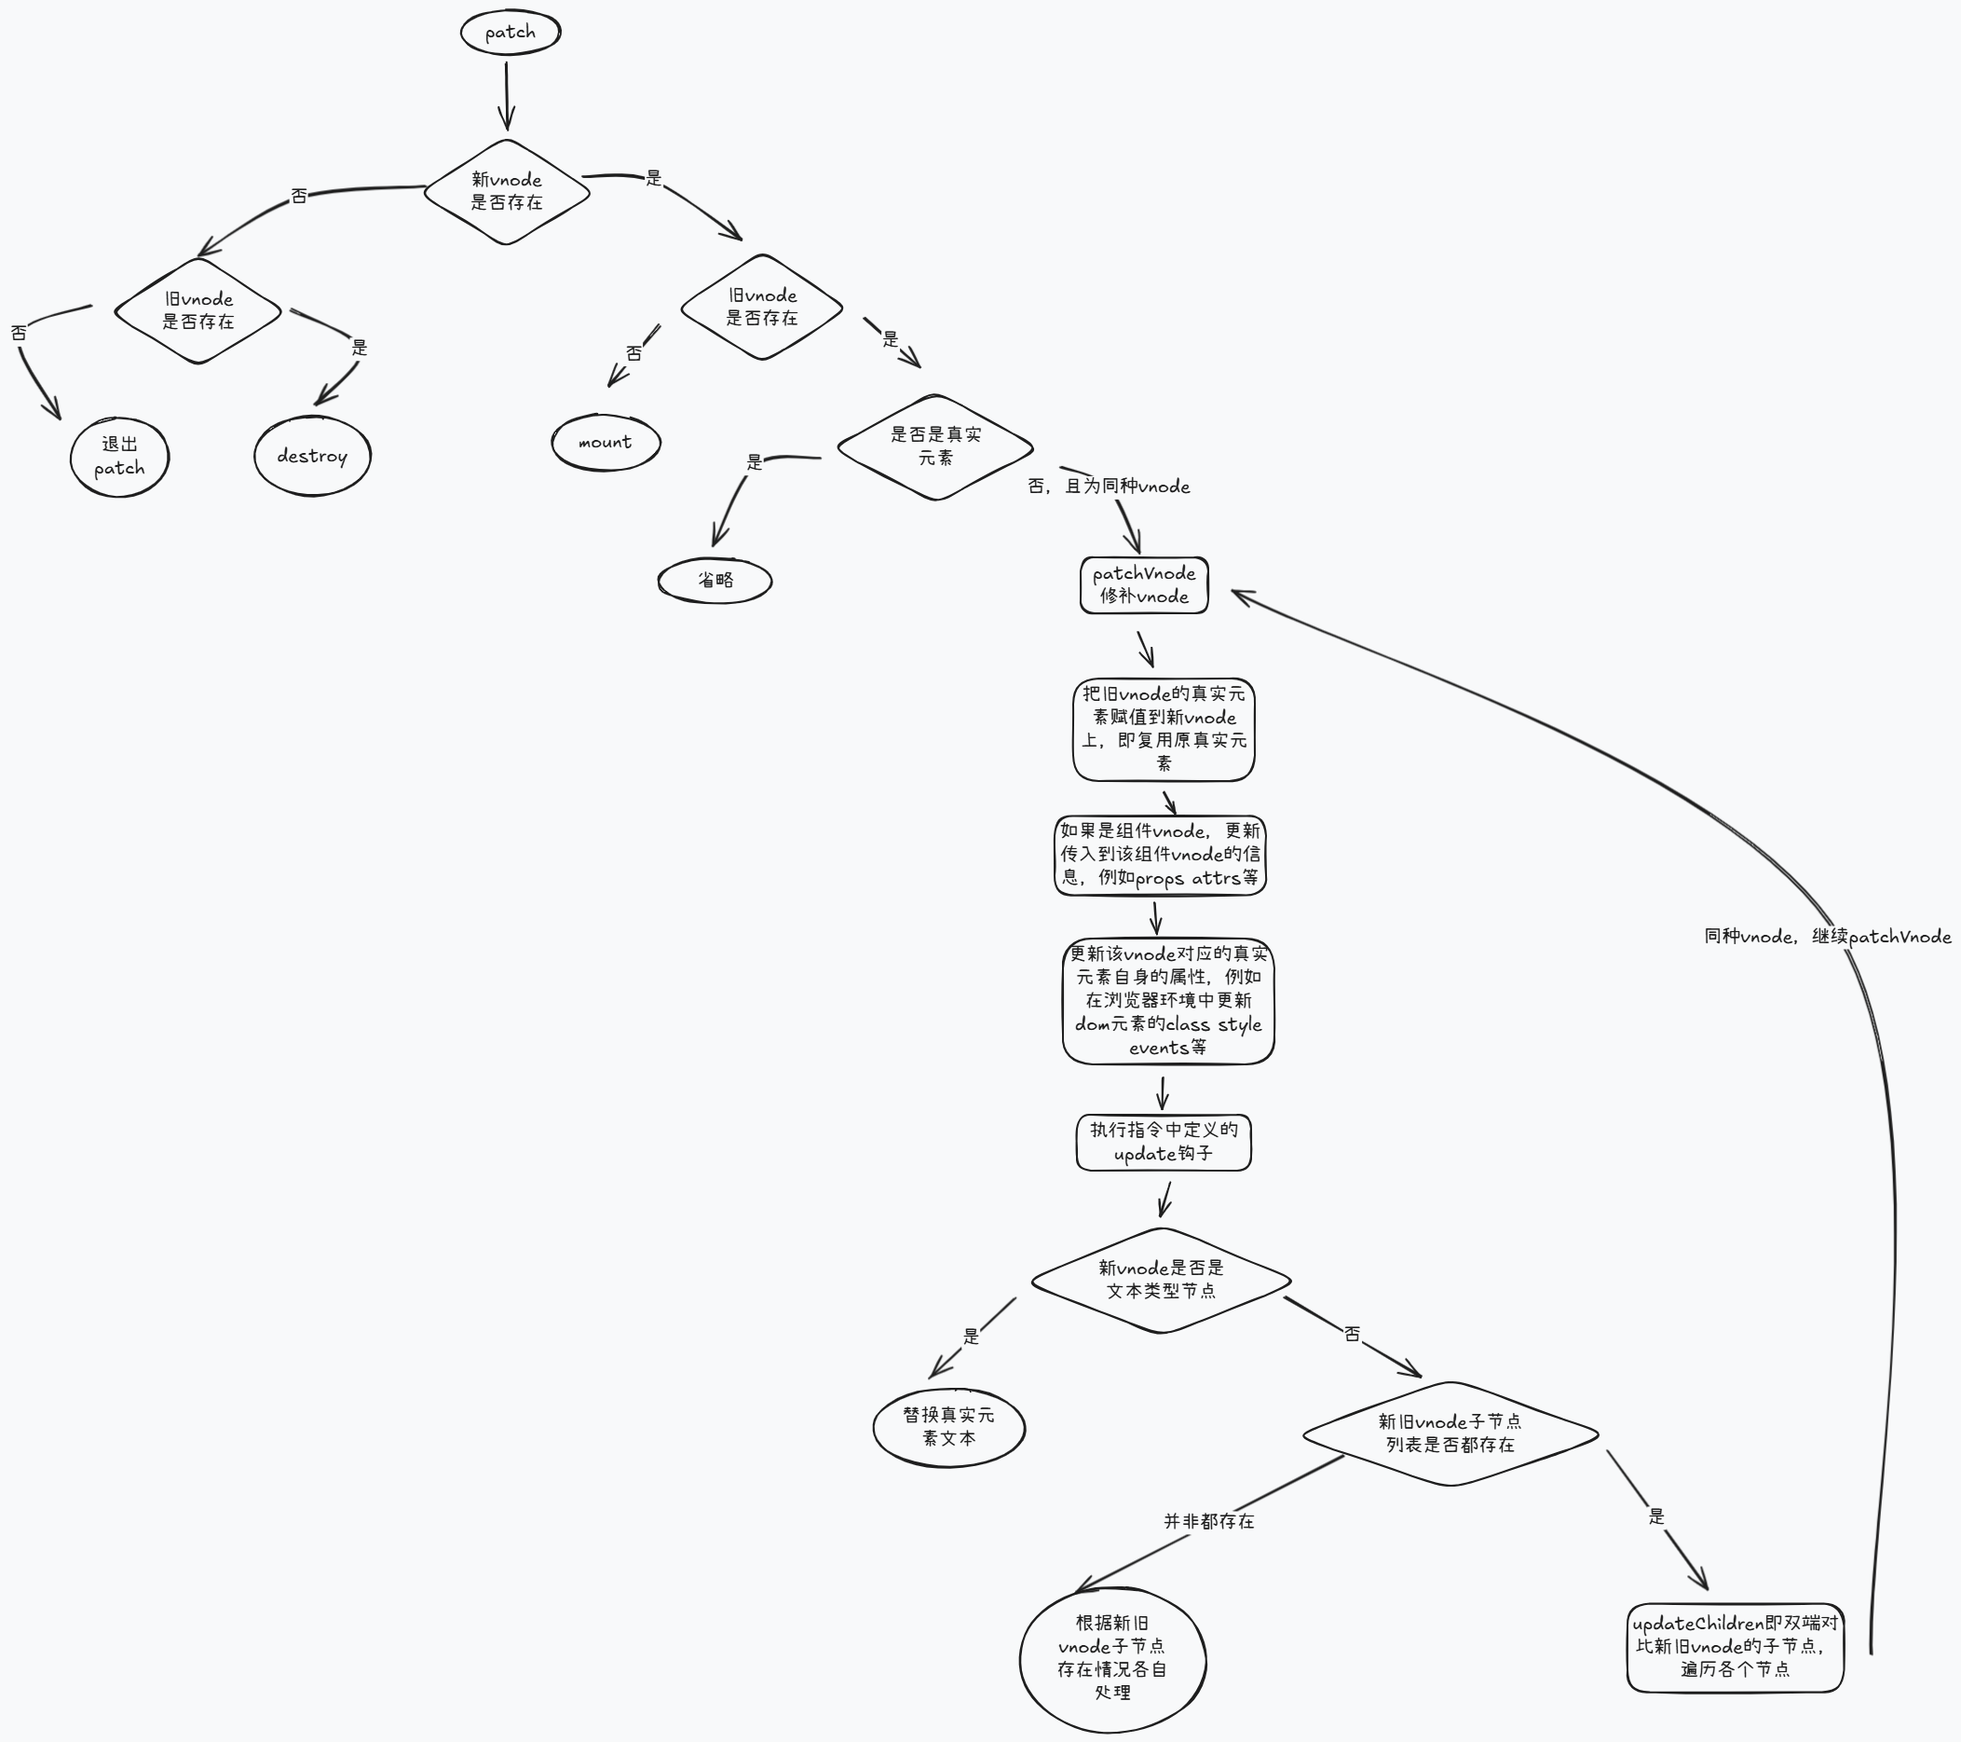
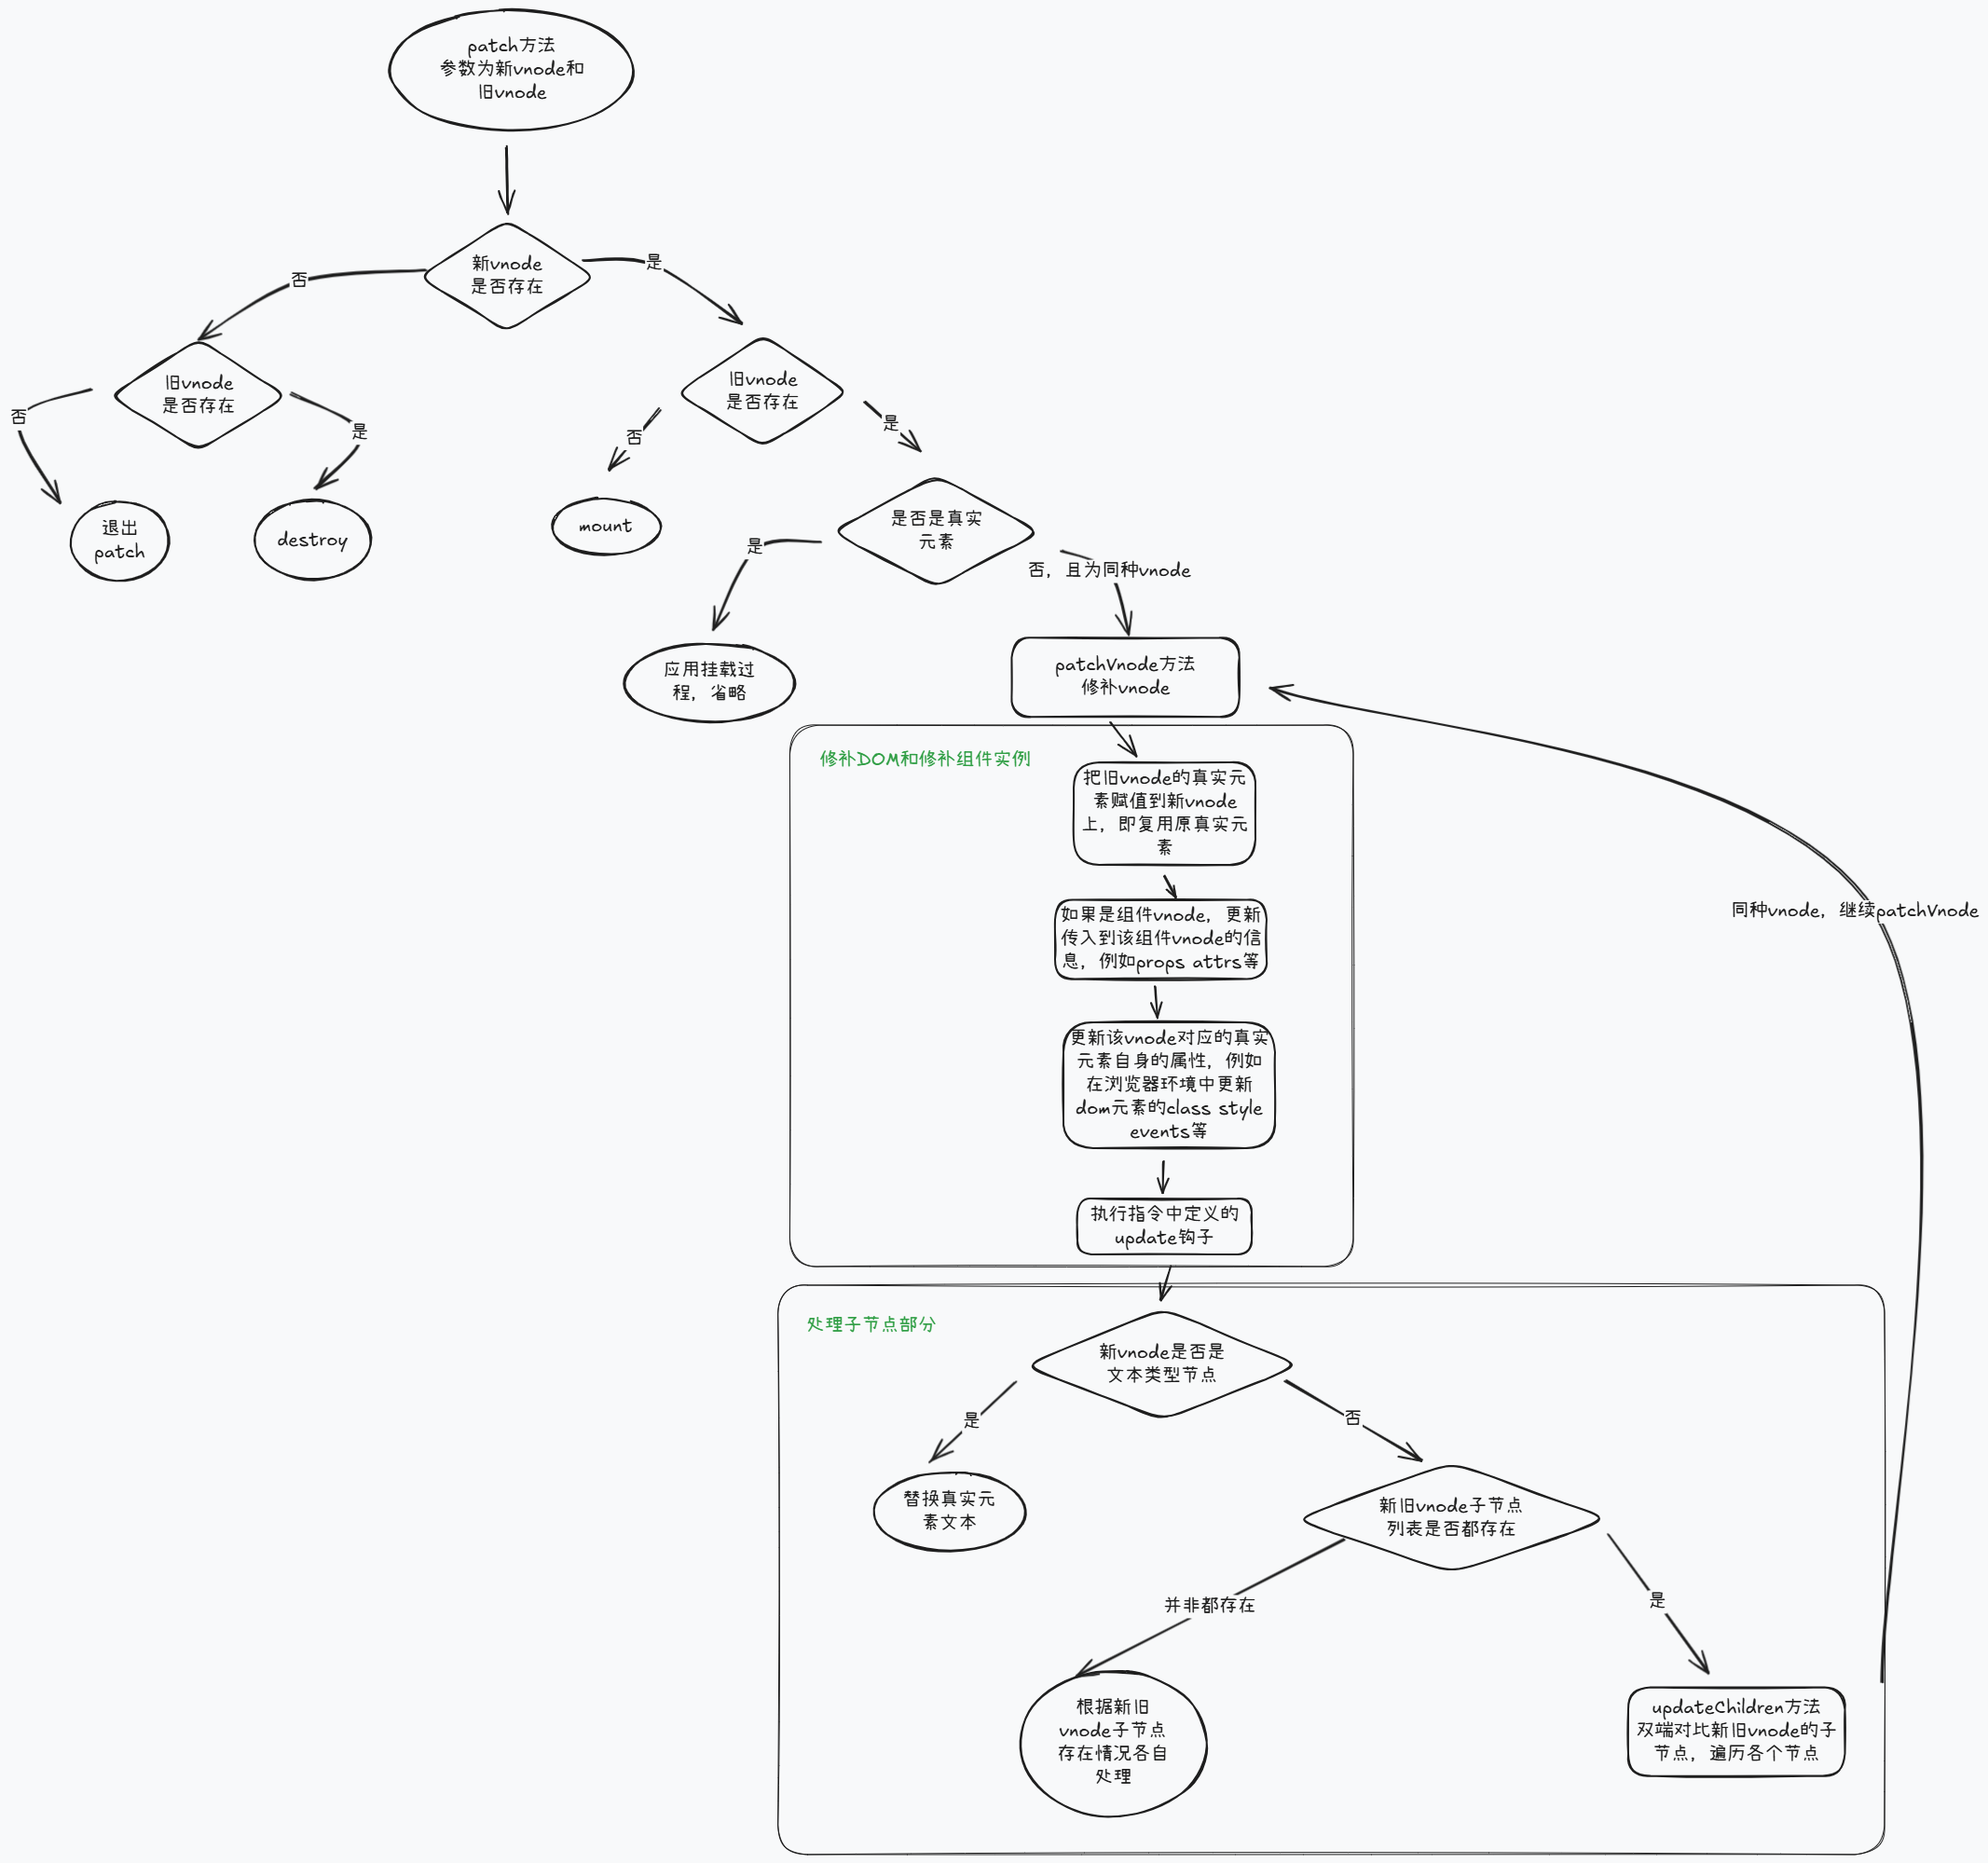
feat: 文案和图片调整

diff --git a/pages/share/bug1-else-if.md b/pages/share/bug1-else-if.md
@@ -1,4 +1,4 @@
-## 那么还有其他更简单合理的方案吗
+## 更优方案
 
 重新观察两组列表，这里我们排除掉那些不会影响`diff`时vNode顺序的节点便于观察
 
@@ -233,10 +233,10 @@ function render() {
 
 ```ts {all}{maxHeight:'400px'}
 // src\compiler\parser\index.ts
-// parser阶段
+// parse阶段 把template中的内容解析成AST
 
 // 处理v-if属性
-function processIf(el) {
+function processIf(el: ASTElement) {
   // 获取指定attribute的值
   const exp = getAndRemoveAttr(el, 'v-if')
   if (exp) {
@@ -297,7 +297,7 @@ function processIfConditions(el, parent) {
 
 ```ts {all}{maxHeight:'400px'}
 // src\compiler\codegen\index.ts
-// generatecode阶段
+// generate阶段 AST转换成渲染函数
 
 function genIf(
   el: any,
@@ -405,4 +405,4 @@ function render() {
 
 可以看到两处`_setup.boolean`的判断条件都并到了一个三元表达式中，这样在条件发生切换时，都只会影响一条三元表达式的值，而不会出现多余的注释空节点影响`patch`的结果。
 
-同样的，我们可以把出问题的代码中多的`v-if`改为`v-else-if`，发现问题也同样解决了
+同样的，我们可以把项目中代码的`v-if`改为`v-else-if`，发现问题也同样解决了

diff --git a/slides.md b/slides.md
@@ -7,12 +7,12 @@ transition: slide-left
 routerMode: 'hash'
 lineNumbers: true
 info: |
-  ## 深入理解patch过程
+  ## 深入Vue2中patch细节
 
 drawings:
   persist: false
 css: unocss
-title: 深入理解patch过程
+title: 深入Vue2中patch细节
 ---
 
 # **Bug案例分享**
@@ -23,7 +23,7 @@ v-motion
 :enter="{ x: 0, opacity: 1,  scale: 1.5, transition: { delay: 100, duration: 2500 } }"
 >
   <span class="color-orange text-xl">
-    深入理解patch过程
+    深入Vue2中patch细节
   </span>
 </div>
 
